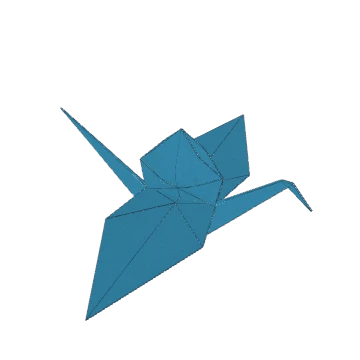
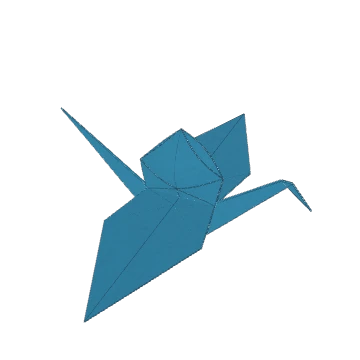
학 등 부풀리기를 매끄러운 낮은 언덕으로: 위에서 볼 때 몸통 가운데 틈의 들쭉날쭉한 흰 경계 제거
면 안쪽에 꺾인 선이 있으면 겹마다 다른 메시가 다르게 보간해 붙은 겹끼리 엇갈렸다

diff --git a/src/models/crane.js b/src/models/crane.js
@@ -39,8 +39,8 @@ const head = () => {
     { line, side: tip, spine, filter: (c) => c.tags.has('neck') && c.tags.has('f2'), toward: 1, shift: 0.5 },
   ];
 };
-// 날개를 펴면 등(날개 경첩 위 몸통)이 낮은 사각뿔처럼 솟는다: 꼭대기 점(0,0)·양옆 꼭짓점(±0.117,-0.117)·
-// 날개 경첩(y=-0.207)은 그대로, 가운데가 가장 많이. 면은 평평하게(구간마다 일차식) 두어 접힌 종이처럼 각지게.
+// 날개를 펴면 등(날개 경첩 위 몸통)이 낮게 솟는다: 꼭대기 점(0,0)·양옆 꼭짓점(±0.117,-0.117)·
+// 날개 경첩(y=-0.207)은 그대로, 가운데가 가장 많이.
 // 한쪽 벽의 겹은 통째로 같은 양만큼 밀린다 (겹마다 다르게 밀면 겹 가장자리에 틈이 벌어져 속이 보인다).
 // 앞 벽·뒤 벽은 높이가 아니라 종이 조각으로 가른다: 처음 반으로 접을 때 뒤로 간 쪽(f2)이 뒤 벽.
 // 몸통 윗부분은 여덟 조각이 고리로 이어져 있다. 바깥 겹(faceA·faceB)은 가운데 선을 평평하게 건너고,
@@ -53,9 +53,10 @@ const puff = (p, e, q) => {
   // 이 단계에 돌아가는 날개 조각은 밀지 않는다 (접기 전에는 몸통 자리에 겹쳐 있어, 밀면 몸통 겹을 지나친다. 끝에서는 경첩선 위라 0)
   if (q.owner >= 0) return p;
   if (y >= 0 || y <= -0.207 || Math.abs(x) >= 0.117) return p;
-  const tx = 1 - Math.abs(x) / 0.117;
-  const ty = y > -0.117 ? -y / 0.117 : (y + 0.207) / 0.09;
-  const h = Math.min(tx, ty);
+  // 매끄러운 낮은 언덕 (면 안쪽에 꺾인 선이 있으면 겹마다 다른 메시가 다르게 보간해 붙어 있는 겹끼리 엇갈린다)
+  const tx = Math.cos((Math.PI * x) / 0.234);
+  const ty = Math.sin((Math.PI * -y) / 0.207);
+  const h = tx * ty;
   const half = y >= -0.117 ? -y : 0.117 + 0.2 * (y + 0.117); // 그 높이에서 몸통 윗부분의 반폭
   const r = inner(q) ? Math.min(1, Math.abs(x) / Math.max(half, 1e-6)) : 1;
   return [x, y, z + BACK * e * h * r * (q.tags.has('f2') ? -1 : 1)];
